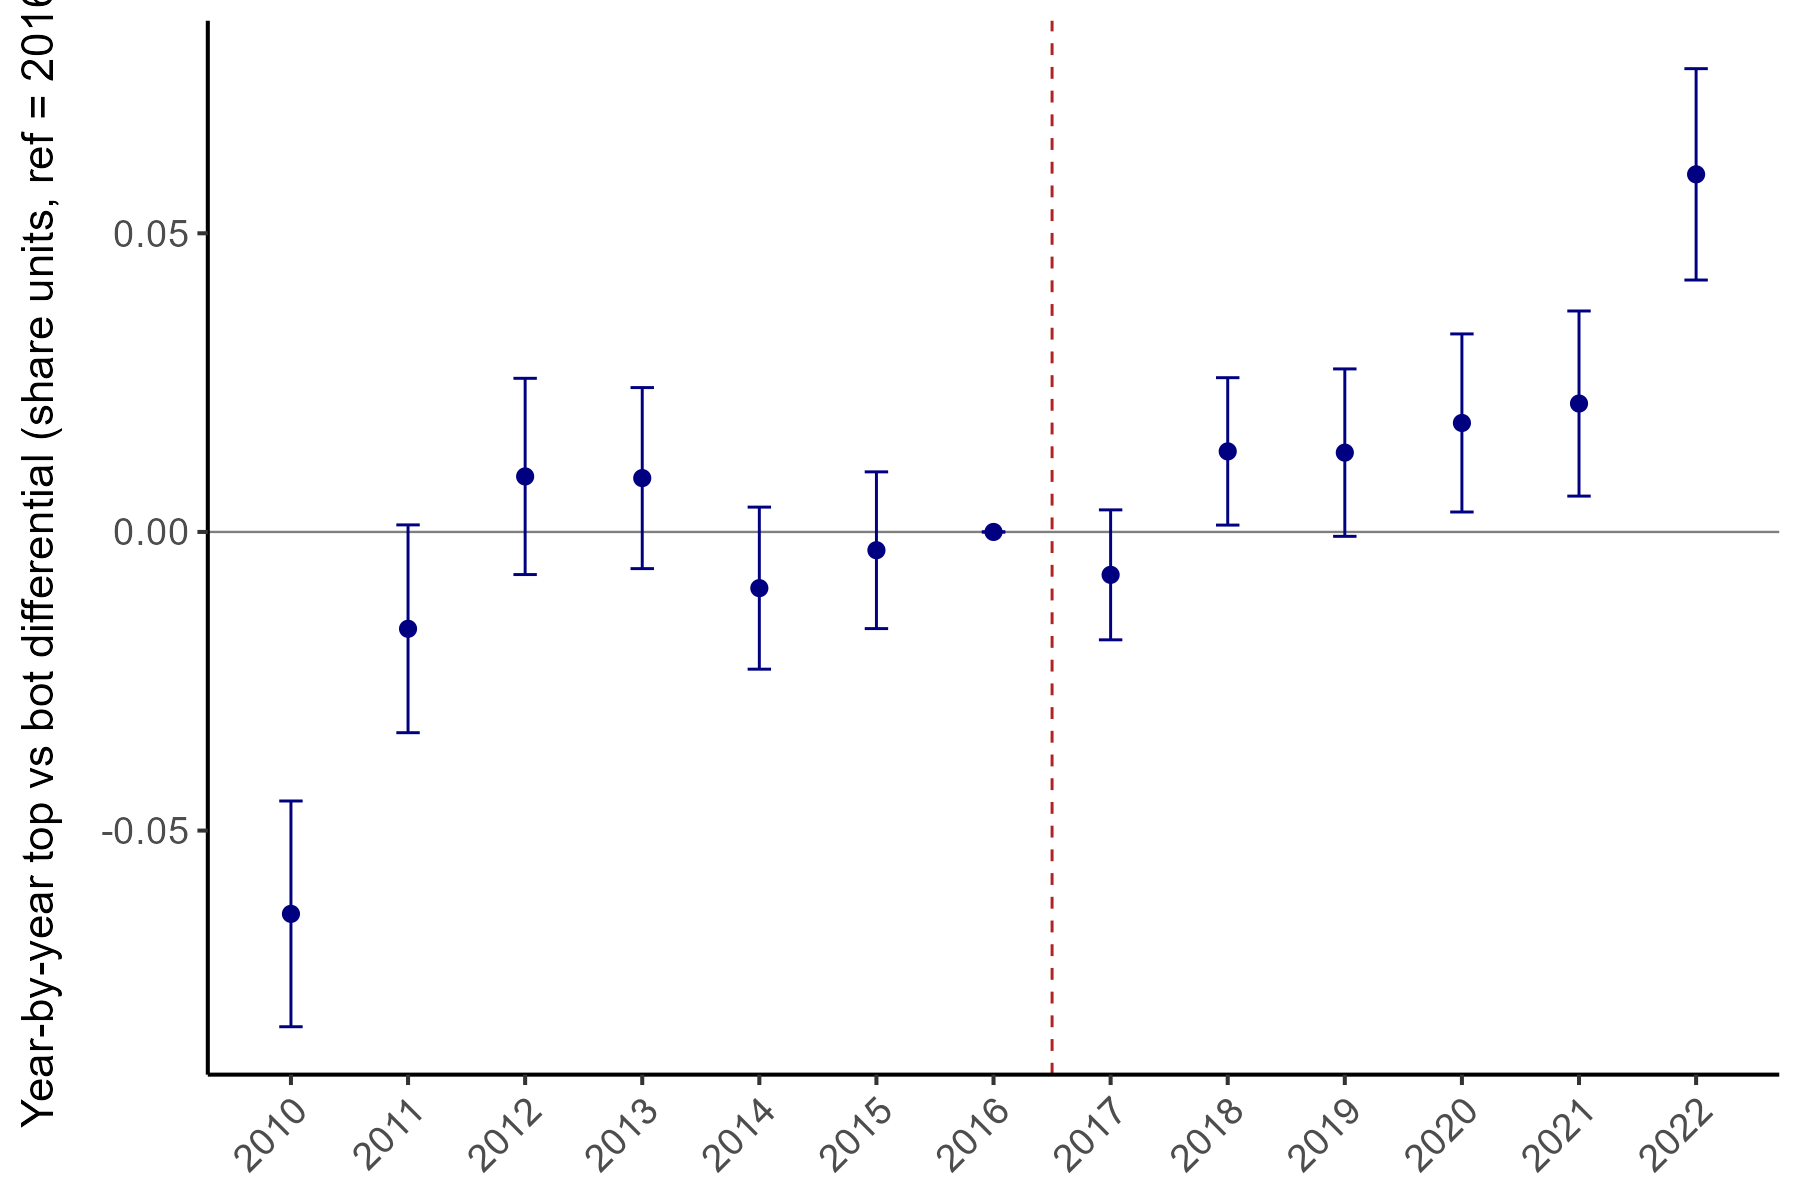
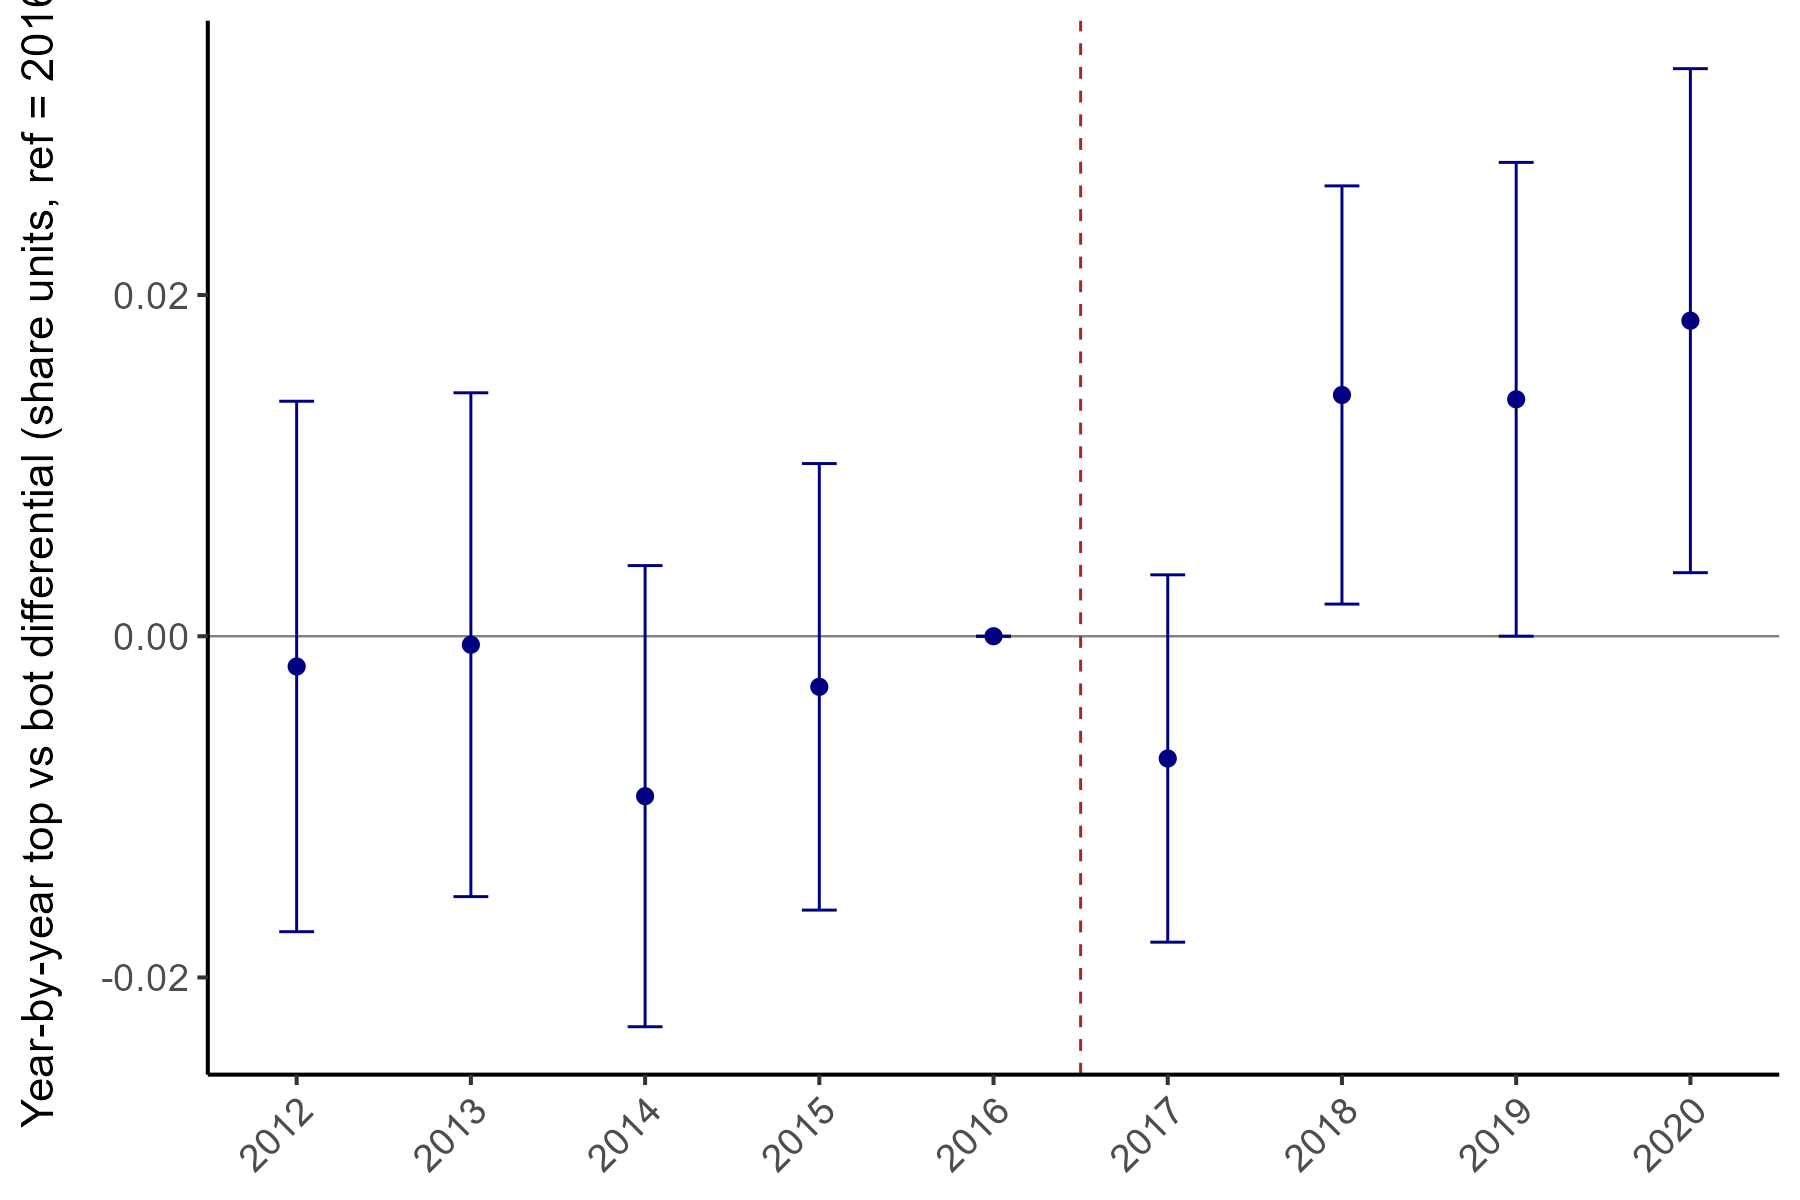
within nace intensive margin new windown

diff --git a/output_rmd/tables/phase4_within_intensive_did_honestdid_bounds.tex b/output_rmd/tables/phase4_within_intensive_did_honestdid_bounds.tex
@@ -1,22 +1,22 @@
 % latex table generated in R 4.4.1 by xtable 1.8-4 package
-% Wed May 20 05:22:56 2026
+% Thu May 21 17:23:55 2026
 \begin{table}[ht]
 \centering
-\caption{HonestDiD bounds on the average post-period treatment effect (within-NACE-4d intensive margin), as a function of $\bar{M}$ (relative-magnitudes bound: post-period parallel-trends violation is at most $\bar{M}$ times the largest pre-period violation). Row at $\bar{M} = 0$, method = `Original' is the standard 95% CI assuming exact parallel trends.} 
+\caption{HonestDiD relative-magnitudes bounds on the average post-period treatment effect (within-NACE-4d intensive margin, panel 2012-2020). $\bar{M} = 0$ row is the standard 95% CI assuming exact parallel trends. For $\bar{M} > 0$, the post-period parallel-trends violation is bounded above by $\bar{M}$ times the maximum pre-period violation. The breakdown $\bar{M}$ is the smallest value for which the CI includes zero.} 
 \label{tab:phase4_within_intensive_did_honestdid_bounds}
-\begin{tabular}{llll}
+\begin{tabular}{llr}
   \toprule
-Mbar & method & Option 2B detrended & Raw event study \\ 
+$\bar{M}$ & Method & 95\% CI \\ 
   \midrule
-0.00 & HonestDiD & [-0.0011, 0.0152] & [-0.0074, 0.0089] \\ 
-  0.00 & Original (M = 0) & [-0.0014, 0.0153] & [-0.0076, 0.0090] \\ 
-  0.25 & HonestDiD & [-0.0175, 0.0316] & [-0.0185, 0.0200] \\ 
-  0.50 & HonestDiD & [-0.0379, 0.0519] & [-0.0336, 0.0352] \\ 
-  0.75 & HonestDiD & [-0.0589, 0.0730] & [-0.0495, 0.0508] \\ 
-  1.00 & HonestDiD & [-0.0802, 0.0851] & [-0.0655, 0.0668] \\ 
-  1.25 & HonestDiD & [-0.0851, 0.0851] & [-0.0816, 0.0832] \\ 
-  1.50 & HonestDiD & [-0.0851, 0.0851] & [-0.0850, 0.0850] \\ 
-  2.00 & HonestDiD & [-0.0851, 0.0851] & [-0.0850, 0.0850] \\ 
+0.00 & Original (no PT slack) & [-0.0010, 0.0204] \\ 
+  0.00 & HonestDiD (relative magnitudes) & [-0.0010, 0.0204] \\ 
+  0.25 & HonestDiD (relative magnitudes) & [-0.0121, 0.0320] \\ 
+  0.50 & HonestDiD (relative magnitudes) & [-0.0279, 0.0480] \\ 
+  0.75 & HonestDiD (relative magnitudes) & [-0.0445, 0.0646] \\ 
+  1.00 & HonestDiD (relative magnitudes) & [-0.0615, 0.0819] \\ 
+  1.25 & HonestDiD (relative magnitudes) & [-0.0788, 0.0991] \\ 
+  1.50 & HonestDiD (relative magnitudes) & [-0.0961, 0.1092] \\ 
+  2.00 & HonestDiD (relative magnitudes) & [-0.1092, 0.1092] \\ 
    \bottomrule
 \end{tabular}
 \end{table}

diff --git a/output_rmd/tables/phase4_within_intensive_did_coefs.tex b/output_rmd/tables/phase4_within_intensive_did_coefs.tex
@@ -1,26 +1,26 @@
 
 \begin{table}[htbp]
-   \caption{\label{tab:phase4_within_intensive_did_coefs} Intensive margin DiD on the present-in-2010-14 sample. Column 1 is the naive 2x2 DiD; column 2 adds a linear pre-trend interaction (year - 2017) * top to absorb the structural differential trend between top and bot.}
+   \caption{\label{tab:phase4_within_intensive_did_coefs} Within-NACE-4d intensive-margin DiD, present-in-2010-14 sample, panel 2012-2020. Column 1: naive DiD on the cell-role panel (top supplier vs portfolio-bot per cell-year). Column 2: pair-level DiD with age x top fixed effects to absorb the differential attrition between top and bot.}
    \centering
    \begin{tabular}{lcc}
       \tabularnewline \midrule \midrule
       Dependent Variable: & \multicolumn{2}{c}{Within-cell share}\\
-      Model:                      & (1)            & (2)\\  
+      Model:              & (1)           & (2)\\  
       \midrule
       \emph{Variables}\\
-      post $\times$ top           & 0.0279$^{***}$ & -0.0220$^{***}$\\   
-                                  & (0.0059)       & (0.0063)\\   
-      (year - 2017) $\times$ top  &                & 0.0080$^{***}$\\   
-                                  &                & (0.0011)\\   
+      post $\times$ top   & 0.0123$^{**}$ & 0.0031\\   
+                          & (0.0055)      & (0.0056)\\   
       \midrule
       \emph{Fixed-effects}\\
-      Cell $\times$ role          & Yes            & Yes\\  
-      Year                        & Yes            & Yes\\  
+      Cell $\times$ role  & Yes           & Yes\\  
+      Year                & Yes           & Yes\\  
+      Age                 &               & Yes\\  
+      Age-Top             &               & Yes\\  
       \midrule
       \emph{Fit statistics}\\
-      Observations                & 115,530        & 115,530\\  
-      R$^2$                       & 0.6713         & 0.6717\\  
-      Within R$^2$                & 0.0011         & 0.0025\\  
+      Observations        & 81,164        & 188,149\\  
+      R$^2$               & 0.7386        & 0.6579\\  
+      Within R$^2$        & 0.0003        & $2.33\times 10^{-6}$\\   
       \midrule \midrule
       \multicolumn{3}{l}{\emph{Clustered (cell\_id) standard-errors in parentheses}}\\
       \multicolumn{3}{l}{\emph{Signif. Codes: ***: 0.01, **: 0.05, *: 0.1}}\\

diff --git a/output_rmd/tables/phase4_within_intensive_did_eventstudy.tex b/output_rmd/tables/phase4_within_intensive_did_eventstudy.tex
@@ -1,26 +1,22 @@
 % latex table generated in R 4.4.1 by xtable 1.8-4 package
-% Tue May 19 23:13:18 2026
+% Thu May 21 17:09:11 2026
 \begin{table}[ht]
 \centering
-\caption{Event-study coefficients on the intensive margin DiD. Year-by-year top vs bot differential, relative to 2016 (omitted reference). Spec: share $\sim$ i(year, top, ref=2016) | cell-role FE + year FE. Clustered on cell.} 
+\caption{Event-study coefficients on the within-NACE-4d intensive margin. Year-by-year top vs bot differential, relative to 2016 (omitted reference). Spec: share $\sim$ i(year, top, ref=2016) | cell-role FE + year FE. Clustered on cell. Panel 2012-2020.} 
 \label{tab:phase4_within_intensive_did_eventstudy}
 \begin{tabular}{rrlll}
   \toprule
 Year & k & Estimate & Std. Err. & 95\% CI \\ 
   \midrule
-2010 & -7.00 & -0.0639 & 0.0096 & [-0.0828, -0.0450] \\ 
-  2011 & -6.00 & -0.0162 & 0.0089 & [-0.0336, 0.0012] \\ 
-  2012 & -5.00 & 0.0093 & 0.0084 & [-0.0071, 0.0257] \\ 
-  2013 & -4.00 & 0.0090 & 0.0077 & [-0.0061, 0.0242] \\ 
-  2014 & -3.00 & -0.0094 & 0.0069 & [-0.0230, 0.0042] \\ 
-  2015 & -2.00 & -0.0031 & 0.0067 & [-0.0162, 0.0101] \\ 
+2012 & -5.00 & -0.0018 & 0.0079 & [-0.0173, 0.0138] \\ 
+  2013 & -4.00 & -0.0005 & 0.0075 & [-0.0153, 0.0143] \\ 
+  2014 & -3.00 & -0.0094 & 0.0069 & [-0.0229, 0.0041] \\ 
+  2015 & -2.00 & -0.0030 & 0.0067 & [-0.0161, 0.0101] \\ 
   2016 & -1.00 & 0 (ref) & -- & -- \\ 
-  2017 & 0.00 & -0.0072 & 0.0056 & [-0.0181, 0.0037] \\ 
-  2018 & 1.00 & 0.0135 & 0.0063 & [0.0011, 0.0258] \\ 
-  2019 & 2.00 & 0.0133 & 0.0072 & [-0.0007, 0.0273] \\ 
-  2020 & 3.00 & 0.0182 & 0.0076 & [0.0033, 0.0332] \\ 
-  2021 & 4.00 & 0.0215 & 0.0079 & [0.0060, 0.0370] \\ 
-  2022 & 5.00 & 0.0599 & 0.0090 & [0.0422, 0.0776] \\ 
+  2017 & 0.00 & -0.0072 & 0.0055 & [-0.0179, 0.0036] \\ 
+  2018 & 1.00 & 0.0141 & 0.0063 & [0.0019, 0.0264] \\ 
+  2019 & 2.00 & 0.0139 & 0.0071 & [0.0000, 0.0278] \\ 
+  2020 & 3.00 & 0.0185 & 0.0075 & [0.0037, 0.0333] \\ 
    \bottomrule
 \end{tabular}
 \end{table}

diff --git a/output_rmd/tables/phase4_within_intensive_did_mht_heterogeneity.tex b/output_rmd/tables/phase4_within_intensive_did_mht_heterogeneity.tex
@@ -1,0 +1,20 @@
+% latex table generated in R 4.4.1 by xtable 1.8-4 package
+% Thu May 21 17:15:09 2026
+\begin{table}[ht]
+\centering
+\caption{Within-NACE-4d intensive-margin DiD by heterogeneity cut.  Each row reports the post-2017 top vs bot share differential $\widehat{\gamma}$ from a separate naive DiD on the indicated subsample. Heterogeneity variables: cost shock (= $\omega_{top}$ $\times$ (top supplier's pre-window sales to buyer / buyer's pre-window total cost) $\times$ EUA at peak); input share (= NACE-4d spend / buyer total cost); exposure gap (= $\omega_{top} - \omega_{bot}$). Significance stars use Romano-Wolf step-down adjusted $p$-values (cluster-bootstrap on buyer, $B = 500$). Clustered SEs at the cell level.} 
+\label{tab:phase4_within_intensive_did_mht_heterogeneity}
+\begin{tabular}{llllr}
+  \toprule
+Cut & Cells & $\widehat{\gamma}$ & SE & RW $p$ \\ 
+  \midrule
+Pooled (no restriction) & 4,997 & 0.0080 & (0.0056) & 0.7320 \\ 
+  Top quartile, cost shock & 1,249 & -0.0527 & (0.0105) & 0.4620 \\ 
+  Top decile, cost shock &   500 & -0.0473 & (0.0151) & 0.6060 \\ 
+  Top quartile, input share & 1,249 & 0.0076 & (0.0075) & 0.7760 \\ 
+  Top decile, input share &   500 & 0.0030 & (0.0098) & 0.7920 \\ 
+  Top quartile, exposure gap & 1,274 & 0.0069 & (0.0103) & 0.7920 \\ 
+  Top decile, exposure gap &   589 & 0.0277 & (0.0155) & 0.7320 \\ 
+   \bottomrule
+\end{tabular}
+\end{table}
